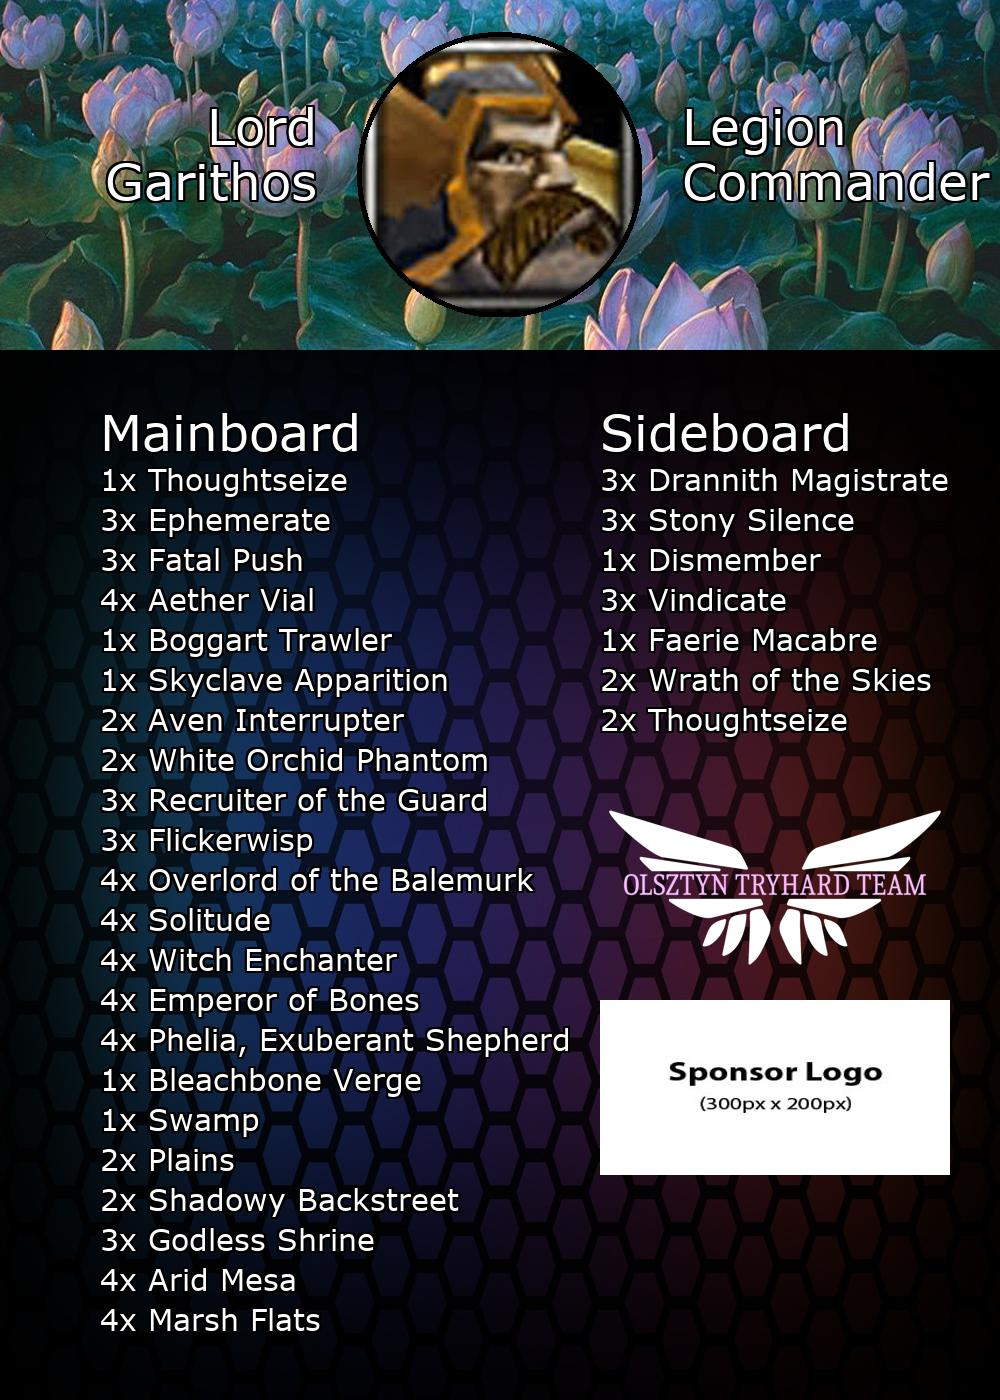
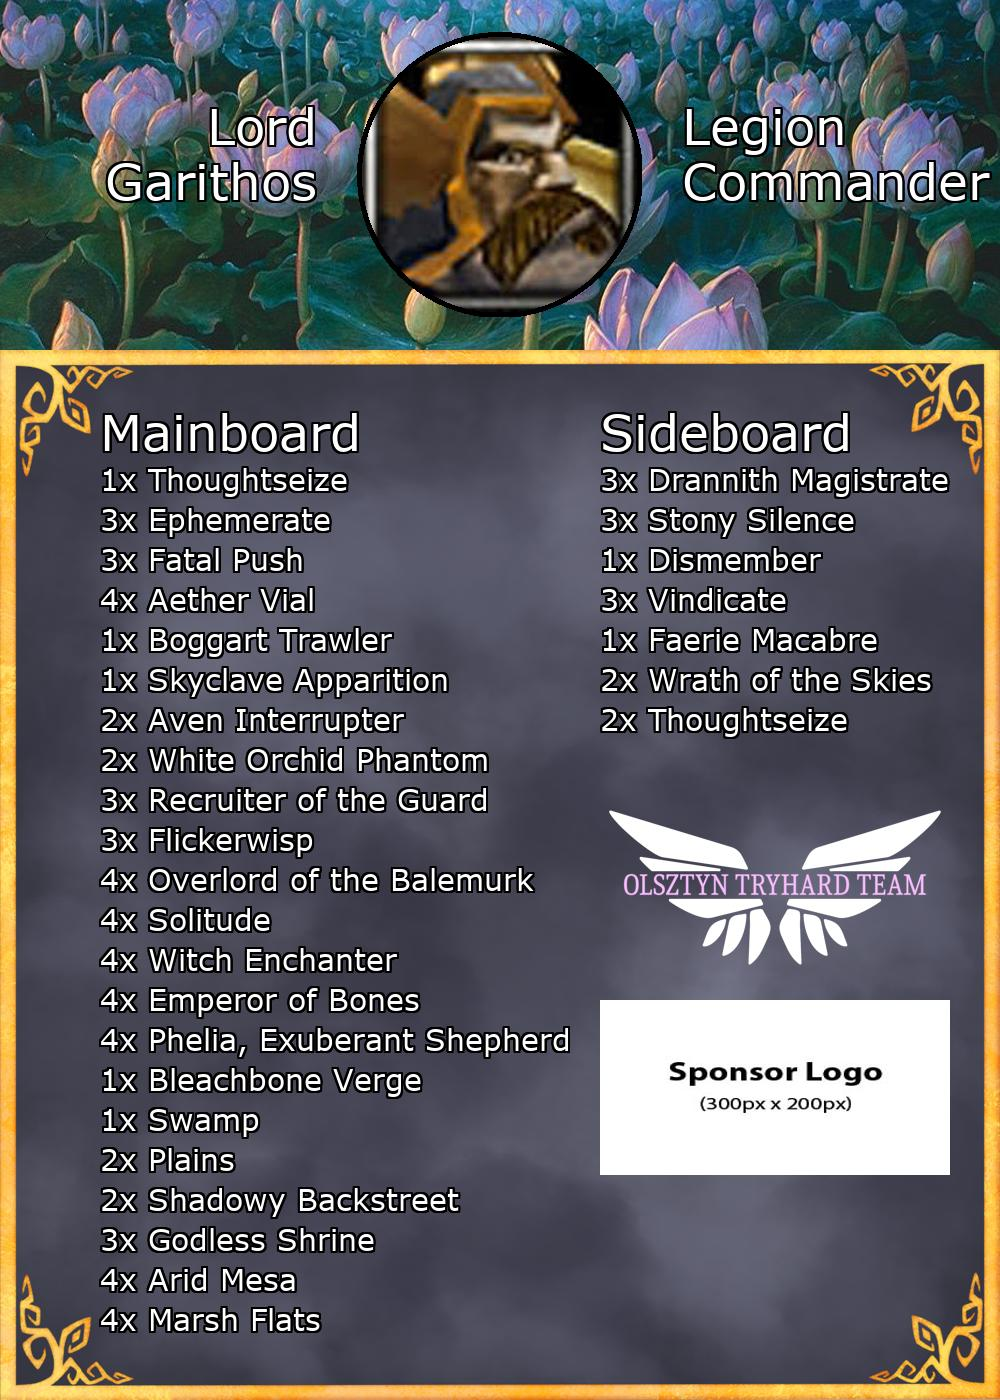
Changed bottom_background to prettier

diff --git a/python.py b/python.py
@@ -24,7 +24,7 @@ SIDEBOARD_X_OFFSET = CARD_WIDTH // 2 + 100  # Horizontal position for Sideboard 
 TEXT_START_Y = TOP_SECTION_HEIGHT + 50  # Vertical starting position for text in the decklist section
 
 TOP_BACKGROUND_IMAGE = "background.jpg"  # Background image for the top section
-BOTTOM_BACKGROUND_IMAGE = "bottom_background.jpg"  # Background image for the bottom section
+BOTTOM_BACKGROUND_IMAGE = "bottom_background.png"  # Background image for the bottom section
 
 SPONSOR_LOGO_SIZE = (350, 175)  # Size of the sponsor logo (width, height)
 SPONSOR_LOGO_1_IMAGE = "sponsor_logo1.png"  # Sponsor logo image file
